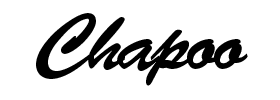
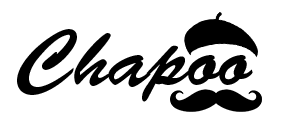
form resize

diff --git a/UI/LoginForm.Designer.cs b/UI/LoginForm.Designer.cs
@@ -43,27 +43,28 @@
             // 
             // userName_tb
             // 
-            this.userName_tb.Location = new System.Drawing.Point(72, 214);
+            this.userName_tb.Location = new System.Drawing.Point(102, 226);
             this.userName_tb.Name = "userName_tb";
-            this.userName_tb.Size = new System.Drawing.Size(140, 20);
+            this.userName_tb.Size = new System.Drawing.Size(166, 20);
             this.userName_tb.TabIndex = 0;
             this.userName_tb.TextChanged += new System.EventHandler(this.userName_tb_TextChanged);
             // 
             // passWord_tb
             // 
-            this.passWord_tb.Location = new System.Drawing.Point(72, 270);
+            this.passWord_tb.Location = new System.Drawing.Point(102, 282);
             this.passWord_tb.Name = "passWord_tb";
             this.passWord_tb.PasswordChar = '*';
-            this.passWord_tb.Size = new System.Drawing.Size(140, 20);
+            this.passWord_tb.Size = new System.Drawing.Size(166, 20);
             this.passWord_tb.TabIndex = 1;
             this.passWord_tb.TextChanged += new System.EventHandler(this.passWord_tb_TextChanged);
             // 
             // userName_lbl
             // 
             this.userName_lbl.AutoSize = true;
-            this.userName_lbl.Location = new System.Drawing.Point(72, 195);
+            this.userName_lbl.Font = new System.Drawing.Font("Microsoft Sans Serif", 10F, System.Drawing.FontStyle.Regular, System.Drawing.GraphicsUnit.Point, ((byte)(0)));
+            this.userName_lbl.Location = new System.Drawing.Point(102, 206);
             this.userName_lbl.Name = "userName_lbl";
-            this.userName_lbl.Size = new System.Drawing.Size(84, 13);
+            this.userName_lbl.Size = new System.Drawing.Size(113, 17);
             this.userName_lbl.TabIndex = 2;
             this.userName_lbl.Text = "Gebruikersnaam";
             this.userName_lbl.Click += new System.EventHandler(this.userName_lbl_Click);
@@ -71,9 +72,10 @@
             // passWord_lbl
             // 
             this.passWord_lbl.AutoSize = true;
-            this.passWord_lbl.Location = new System.Drawing.Point(72, 254);
+            this.passWord_lbl.Font = new System.Drawing.Font("Microsoft Sans Serif", 10F, System.Drawing.FontStyle.Regular, System.Drawing.GraphicsUnit.Point, ((byte)(0)));
+            this.passWord_lbl.Location = new System.Drawing.Point(102, 262);
             this.passWord_lbl.Name = "passWord_lbl";
-            this.passWord_lbl.Size = new System.Drawing.Size(68, 13);
+            this.passWord_lbl.Size = new System.Drawing.Size(86, 17);
             this.passWord_lbl.TabIndex = 3;
             this.passWord_lbl.Text = "Wachtwoord";
             this.passWord_lbl.Click += new System.EventHandler(this.passWord_lbl_Click);
@@ -81,7 +83,7 @@
             // password_icon
             // 
             this.password_icon.Image = global::UI.Properties.Resources.Lock;
-            this.password_icon.Location = new System.Drawing.Point(41, 271);
+            this.password_icon.Location = new System.Drawing.Point(71, 283);
             this.password_icon.Name = "password_icon";
             this.password_icon.Size = new System.Drawing.Size(25, 19);
             this.password_icon.TabIndex = 7;
@@ -90,7 +92,7 @@
             // people_icon
             // 
             this.people_icon.Image = global::UI.Properties.Resources.People;
-            this.people_icon.Location = new System.Drawing.Point(41, 214);
+            this.people_icon.Location = new System.Drawing.Point(71, 226);
             this.people_icon.Name = "people_icon";
             this.people_icon.Size = new System.Drawing.Size(25, 19);
             this.people_icon.TabIndex = 6;
@@ -98,22 +100,22 @@
             // 
             // logoChapoo
             // 
-            this.logoChapoo.Image = global::UI.Properties.Resources.chapoo;
-            this.logoChapoo.InitialImage = global::UI.Properties.Resources.chapoo;
-            this.logoChapoo.Location = new System.Drawing.Point(12, 29);
+            this.logoChapoo.Image = global::UI.Properties.Resources.chapoo1;
+            this.logoChapoo.Location = new System.Drawing.Point(12, 44);
             this.logoChapoo.Name = "logoChapoo";
-            this.logoChapoo.Size = new System.Drawing.Size(280, 122);
+            this.logoChapoo.Size = new System.Drawing.Size(344, 156);
+            this.logoChapoo.SizeMode = System.Windows.Forms.PictureBoxSizeMode.CenterImage;
             this.logoChapoo.TabIndex = 5;
             this.logoChapoo.TabStop = false;
             // 
             // login_btn
             // 
-            this.login_btn.Font = new System.Drawing.Font("Microsoft Sans Serif", 8.25F, System.Drawing.FontStyle.Bold, System.Drawing.GraphicsUnit.Point, ((byte)(0)));
+            this.login_btn.Font = new System.Drawing.Font("Microsoft Sans Serif", 10F, System.Drawing.FontStyle.Bold, System.Drawing.GraphicsUnit.Point, ((byte)(0)));
             this.login_btn.Image = global::UI.Properties.Resources.Next;
             this.login_btn.ImageAlign = System.Drawing.ContentAlignment.MiddleLeft;
-            this.login_btn.Location = new System.Drawing.Point(72, 306);
+            this.login_btn.Location = new System.Drawing.Point(102, 318);
             this.login_btn.Name = "login_btn";
-            this.login_btn.Size = new System.Drawing.Size(140, 25);
+            this.login_btn.Size = new System.Drawing.Size(166, 38);
             this.login_btn.TabIndex = 4;
             this.login_btn.Text = "Login";
             this.login_btn.UseVisualStyleBackColor = true;
@@ -123,7 +125,7 @@
             // 
             this.AutoScaleDimensions = new System.Drawing.SizeF(6F, 13F);
             this.AutoScaleMode = System.Windows.Forms.AutoScaleMode.Font;
-            this.ClientSize = new System.Drawing.Size(304, 444);
+            this.ClientSize = new System.Drawing.Size(368, 473);
             this.Controls.Add(this.password_icon);
             this.Controls.Add(this.people_icon);
             this.Controls.Add(this.logoChapoo);

diff --git a/UI/KeukenForm.Designer.cs b/UI/KeukenForm.Designer.cs
@@ -37,9 +37,9 @@
             // 
             // listView1
             // 
-            this.listView1.Location = new System.Drawing.Point(13, 38);
+            this.listView1.Location = new System.Drawing.Point(12, 60);
             this.listView1.Name = "listView1";
-            this.listView1.Size = new System.Drawing.Size(279, 361);
+            this.listView1.Size = new System.Drawing.Size(344, 361);
             this.listView1.TabIndex = 0;
             this.listView1.UseCompatibleStateImageBehavior = false;
             this.listView1.SelectedIndexChanged += new System.EventHandler(this.listView1_SelectedIndexChanged);
@@ -50,9 +50,9 @@
             this.refresh_btn.Font = new System.Drawing.Font("Microsoft Sans Serif", 8.25F, System.Drawing.FontStyle.Bold, System.Drawing.GraphicsUnit.Point, ((byte)(0)));
             this.refresh_btn.Image = global::UI.Properties.Resources.Refresh;
             this.refresh_btn.ImageAlign = System.Drawing.ContentAlignment.MiddleLeft;
-            this.refresh_btn.Location = new System.Drawing.Point(13, 409);
+            this.refresh_btn.Location = new System.Drawing.Point(12, 427);
             this.refresh_btn.Name = "refresh_btn";
-            this.refresh_btn.Size = new System.Drawing.Size(90, 27);
+            this.refresh_btn.Size = new System.Drawing.Size(90, 34);
             this.refresh_btn.TabIndex = 4;
             this.refresh_btn.Text = "Verversen";
             this.refresh_btn.TextAlign = System.Drawing.ContentAlignment.MiddleRight;
@@ -63,9 +63,9 @@
             this.bereiden_btn.BackColor = System.Drawing.Color.Yellow;
             this.bereiden_btn.Image = global::UI.Properties.Resources.History;
             this.bereiden_btn.ImageAlign = System.Drawing.ContentAlignment.MiddleLeft;
-            this.bereiden_btn.Location = new System.Drawing.Point(155, 409);
+            this.bereiden_btn.Location = new System.Drawing.Point(182, 427);
             this.bereiden_btn.Name = "bereiden_btn";
-            this.bereiden_btn.Size = new System.Drawing.Size(73, 27);
+            this.bereiden_btn.Size = new System.Drawing.Size(87, 34);
             this.bereiden_btn.TabIndex = 3;
             this.bereiden_btn.Text = "Bereiden";
             this.bereiden_btn.TextAlign = System.Drawing.ContentAlignment.MiddleRight;
@@ -74,11 +74,12 @@
             // klaar_btn
             // 
             this.klaar_btn.BackColor = System.Drawing.Color.Lime;
+            this.klaar_btn.Font = new System.Drawing.Font("Microsoft Sans Serif", 9F, System.Drawing.FontStyle.Bold, System.Drawing.GraphicsUnit.Point, ((byte)(0)));
             this.klaar_btn.Image = global::UI.Properties.Resources.OK;
             this.klaar_btn.ImageAlign = System.Drawing.ContentAlignment.MiddleLeft;
-            this.klaar_btn.Location = new System.Drawing.Point(232, 409);
+            this.klaar_btn.Location = new System.Drawing.Point(275, 427);
             this.klaar_btn.Name = "klaar_btn";
-            this.klaar_btn.Size = new System.Drawing.Size(59, 27);
+            this.klaar_btn.Size = new System.Drawing.Size(81, 34);
             this.klaar_btn.TabIndex = 2;
             this.klaar_btn.Text = "Klaar";
             this.klaar_btn.TextAlign = System.Drawing.ContentAlignment.MiddleRight;
@@ -88,24 +89,24 @@
             // 
             this.logout_btn.Image = global::UI.Properties.Resources.Exit;
             this.logout_btn.ImageAlign = System.Drawing.ContentAlignment.MiddleLeft;
-            this.logout_btn.Location = new System.Drawing.Point(224, 9);
+            this.logout_btn.Location = new System.Drawing.Point(289, 12);
             this.logout_btn.Name = "logout_btn";
-            this.logout_btn.Size = new System.Drawing.Size(67, 23);
-            this.logout_btn.TabIndex = 1;
+            this.logout_btn.Size = new System.Drawing.Size(67, 28);
+            this.logout_btn.TabIndex = 11;
             this.logout_btn.Text = "Logout";
             this.logout_btn.TextAlign = System.Drawing.ContentAlignment.MiddleRight;
             this.logout_btn.UseVisualStyleBackColor = true;
-            this.logout_btn.Click += new System.EventHandler(this.logout_btn_Click);
+            this.logout_btn.Click += new System.EventHandler(this.logout_btn_Click_1);
             // 
             // KeukenForm
             // 
             this.AutoScaleDimensions = new System.Drawing.SizeF(6F, 13F);
             this.AutoScaleMode = System.Windows.Forms.AutoScaleMode.Font;
-            this.ClientSize = new System.Drawing.Size(304, 444);
+            this.ClientSize = new System.Drawing.Size(368, 473);
+            this.Controls.Add(this.logout_btn);
             this.Controls.Add(this.refresh_btn);
             this.Controls.Add(this.bereiden_btn);
             this.Controls.Add(this.klaar_btn);
-            this.Controls.Add(this.logout_btn);
             this.Controls.Add(this.listView1);
             this.Name = "KeukenForm";
             this.Text = "Keuken";
@@ -116,9 +117,9 @@
         #endregion
 
         private System.Windows.Forms.ListView listView1;
-        private System.Windows.Forms.Button logout_btn;
         private System.Windows.Forms.Button klaar_btn;
         private System.Windows.Forms.Button bereiden_btn;
         private System.Windows.Forms.Button refresh_btn;
+        private System.Windows.Forms.Button logout_btn;
     }
 }

diff --git a/UI/OverzichtForm.Designer.cs b/UI/OverzichtForm.Designer.cs
@@ -41,7 +41,7 @@
             this.bezet_lbl.Font = new System.Drawing.Font("Microsoft Sans Serif", 10F, System.Drawing.FontStyle.Regular, System.Drawing.GraphicsUnit.Point, ((byte)(0)));
             this.bezet_lbl.Image = global::UI.Properties.Resources.bezet;
             this.bezet_lbl.ImageAlign = System.Drawing.ContentAlignment.MiddleLeft;
-            this.bezet_lbl.Location = new System.Drawing.Point(17, 415);
+            this.bezet_lbl.Location = new System.Drawing.Point(12, 427);
             this.bezet_lbl.Name = "bezet_lbl";
             this.bezet_lbl.Size = new System.Drawing.Size(68, 17);
             this.bezet_lbl.TabIndex = 13;
@@ -54,7 +54,7 @@
             this.gereserveerd_lbl.Font = new System.Drawing.Font("Microsoft Sans Serif", 10F, System.Drawing.FontStyle.Regular, System.Drawing.GraphicsUnit.Point, ((byte)(0)));
             this.gereserveerd_lbl.Image = global::UI.Properties.Resources.gereserveerd;
             this.gereserveerd_lbl.ImageAlign = System.Drawing.ContentAlignment.MiddleLeft;
-            this.gereserveerd_lbl.Location = new System.Drawing.Point(17, 398);
+            this.gereserveerd_lbl.Location = new System.Drawing.Point(12, 410);
             this.gereserveerd_lbl.Name = "gereserveerd_lbl";
             this.gereserveerd_lbl.Size = new System.Drawing.Size(120, 17);
             this.gereserveerd_lbl.TabIndex = 12;
@@ -68,7 +68,7 @@
             this.beschikbaar_lbl.Font = new System.Drawing.Font("Microsoft Sans Serif", 10F, System.Drawing.FontStyle.Regular, System.Drawing.GraphicsUnit.Point, ((byte)(0)));
             this.beschikbaar_lbl.Image = global::UI.Properties.Resources.beschikbaar;
             this.beschikbaar_lbl.ImageAlign = System.Drawing.ContentAlignment.MiddleLeft;
-            this.beschikbaar_lbl.Location = new System.Drawing.Point(17, 381);
+            this.beschikbaar_lbl.Location = new System.Drawing.Point(12, 393);
             this.beschikbaar_lbl.Name = "beschikbaar_lbl";
             this.beschikbaar_lbl.Size = new System.Drawing.Size(110, 17);
             this.beschikbaar_lbl.TabIndex = 11;
@@ -80,9 +80,9 @@
             // 
             this.logout_btn.Image = global::UI.Properties.Resources.Exit;
             this.logout_btn.ImageAlign = System.Drawing.ContentAlignment.MiddleLeft;
-            this.logout_btn.Location = new System.Drawing.Point(225, 8);
+            this.logout_btn.Location = new System.Drawing.Point(289, 10);
             this.logout_btn.Name = "logout_btn";
-            this.logout_btn.Size = new System.Drawing.Size(67, 23);
+            this.logout_btn.Size = new System.Drawing.Size(67, 28);
             this.logout_btn.TabIndex = 10;
             this.logout_btn.Text = "Logout";
             this.logout_btn.TextAlign = System.Drawing.ContentAlignment.MiddleRight;
@@ -91,10 +91,11 @@
             // 
             // flowLayoutPanel1
             // 
-            this.flowLayoutPanel1.Location = new System.Drawing.Point(50, 53);
-            this.flowLayoutPanel1.Margin = new System.Windows.Forms.Padding(5);
+            this.flowLayoutPanel1.Font = new System.Drawing.Font("Microsoft Sans Serif", 9F, System.Drawing.FontStyle.Regular, System.Drawing.GraphicsUnit.Point, ((byte)(0)));
+            this.flowLayoutPanel1.Location = new System.Drawing.Point(14, 67);
+            this.flowLayoutPanel1.Margin = new System.Windows.Forms.Padding(10);
             this.flowLayoutPanel1.Name = "flowLayoutPanel1";
-            this.flowLayoutPanel1.Size = new System.Drawing.Size(200, 321);
+            this.flowLayoutPanel1.Size = new System.Drawing.Size(340, 309);
             this.flowLayoutPanel1.TabIndex = 14;
             this.flowLayoutPanel1.Paint += new System.Windows.Forms.PaintEventHandler(this.flowLayoutPanel1_Paint);
             // 
@@ -102,7 +103,7 @@
             // 
             this.AutoScaleDimensions = new System.Drawing.SizeF(6F, 13F);
             this.AutoScaleMode = System.Windows.Forms.AutoScaleMode.Font;
-            this.ClientSize = new System.Drawing.Size(304, 444);
+            this.ClientSize = new System.Drawing.Size(368, 473);
             this.Controls.Add(this.flowLayoutPanel1);
             this.Controls.Add(this.bezet_lbl);
             this.Controls.Add(this.gereserveerd_lbl);

diff --git a/UI/EigenaarForm.Designer.cs b/UI/EigenaarForm.Designer.cs
@@ -38,7 +38,7 @@
             this.UC_image.Image = global::UI.Properties.Resources.under_construction;
             this.UC_image.Location = new System.Drawing.Point(12, 106);
             this.UC_image.Name = "UC_image";
-            this.UC_image.Size = new System.Drawing.Size(280, 216);
+            this.UC_image.Size = new System.Drawing.Size(344, 263);
             this.UC_image.SizeMode = System.Windows.Forms.PictureBoxSizeMode.StretchImage;
             this.UC_image.TabIndex = 0;
             this.UC_image.TabStop = false;
@@ -48,24 +48,24 @@
             // 
             this.logout_btn.Image = global::UI.Properties.Resources.Exit;
             this.logout_btn.ImageAlign = System.Drawing.ContentAlignment.MiddleLeft;
-            this.logout_btn.Location = new System.Drawing.Point(225, 8);
+            this.logout_btn.Location = new System.Drawing.Point(289, 12);
             this.logout_btn.Name = "logout_btn";
-            this.logout_btn.Size = new System.Drawing.Size(67, 23);
-            this.logout_btn.TabIndex = 2;
+            this.logout_btn.Size = new System.Drawing.Size(67, 28);
+            this.logout_btn.TabIndex = 11;
             this.logout_btn.Text = "Logout";
             this.logout_btn.TextAlign = System.Drawing.ContentAlignment.MiddleRight;
             this.logout_btn.UseVisualStyleBackColor = true;
-            this.logout_btn.Click += new System.EventHandler(this.logout_btn_Click);
             // 
             // EigenaarForm
             // 
             this.AutoScaleDimensions = new System.Drawing.SizeF(6F, 13F);
             this.AutoScaleMode = System.Windows.Forms.AutoScaleMode.Font;
-            this.ClientSize = new System.Drawing.Size(304, 444);
+            this.ClientSize = new System.Drawing.Size(368, 473);
             this.Controls.Add(this.logout_btn);
             this.Controls.Add(this.UC_image);
             this.Name = "EigenaarForm";
             this.Text = "Chapoo";
+            this.Load += new System.EventHandler(this.EigenaarForm_Load);
             ((System.ComponentModel.ISupportInitialize)(this.UC_image)).EndInit();
             this.ResumeLayout(false);
 

diff --git a/UI/Properties/Resources.Designer.cs b/UI/Properties/Resources.Designer.cs
@@ -103,6 +103,16 @@ namespace UI.Properties {
         /// <summary>
         ///   Looks up a localized resource of type System.Drawing.Bitmap.
         /// </summary>
+        internal static System.Drawing.Bitmap chapoo1 {
+            get {
+                object obj = ResourceManager.GetObject("chapoo1", resourceCulture);
+                return ((System.Drawing.Bitmap)(obj));
+            }
+        }
+        
+        /// <summary>
+        ///   Looks up a localized resource of type System.Drawing.Bitmap.
+        /// </summary>
         internal static System.Drawing.Bitmap Create {
             get {
                 object obj = ResourceManager.GetObject("Create", resourceCulture);

diff --git a/UI/OverzichtForm.cs b/UI/OverzichtForm.cs
@@ -40,8 +40,8 @@ namespace UI
             foreach (Tafel tafel in TafelOverzichtService.GetTafels())
             {
                 Button btn = new Button();
-                btn.Text = tafel.tafelNummer.ToString() + ' '+tafel.status.ToString();
-                btn.Size = new Size(87, 40);
+                btn.Text = "Tafel " + tafel.tafelNummer.ToString() + ' '+tafel.status.ToString();
+                btn.Size = new Size(100, 60);
                 btn.Margin = new Padding(6);
                 if (tafel.status == TafelStatus.Vrij)
                 {

diff --git a/UI/KeukenForm.cs b/UI/KeukenForm.cs
@@ -26,14 +26,18 @@ namespace UI
 
         private void logout_btn_Click(object sender, EventArgs e)
         {
-            LoginForm from = new LoginForm();
-            from.Show();
-
+         // verwijderen   
         }
 
         private void listView1_SelectedIndexChanged(object sender, EventArgs e)
         {
 
+        }
+
+        private void logout_btn_Click_1(object sender, EventArgs e)
+        {
+            LoginForm from = new LoginForm();
+            from.Show();
         }
     }
 }

diff --git a/UI/Program.cs b/UI/Program.cs
@@ -16,7 +16,7 @@ namespace UI
         {
             Application.EnableVisualStyles();
             Application.SetCompatibleTextRenderingDefault(false);
-            Application.Run(new BestellingMenuForm());
+            Application.Run(new LoginForm());
         }
     }
 }

diff --git a/UI/EigenaarForm.cs b/UI/EigenaarForm.cs
@@ -28,6 +28,10 @@ namespace UI
             from.Show();
             this.Close();
         }
-        
+
+        private void EigenaarForm_Load(object sender, EventArgs e)
+        {
+
+        }
     }
 }
